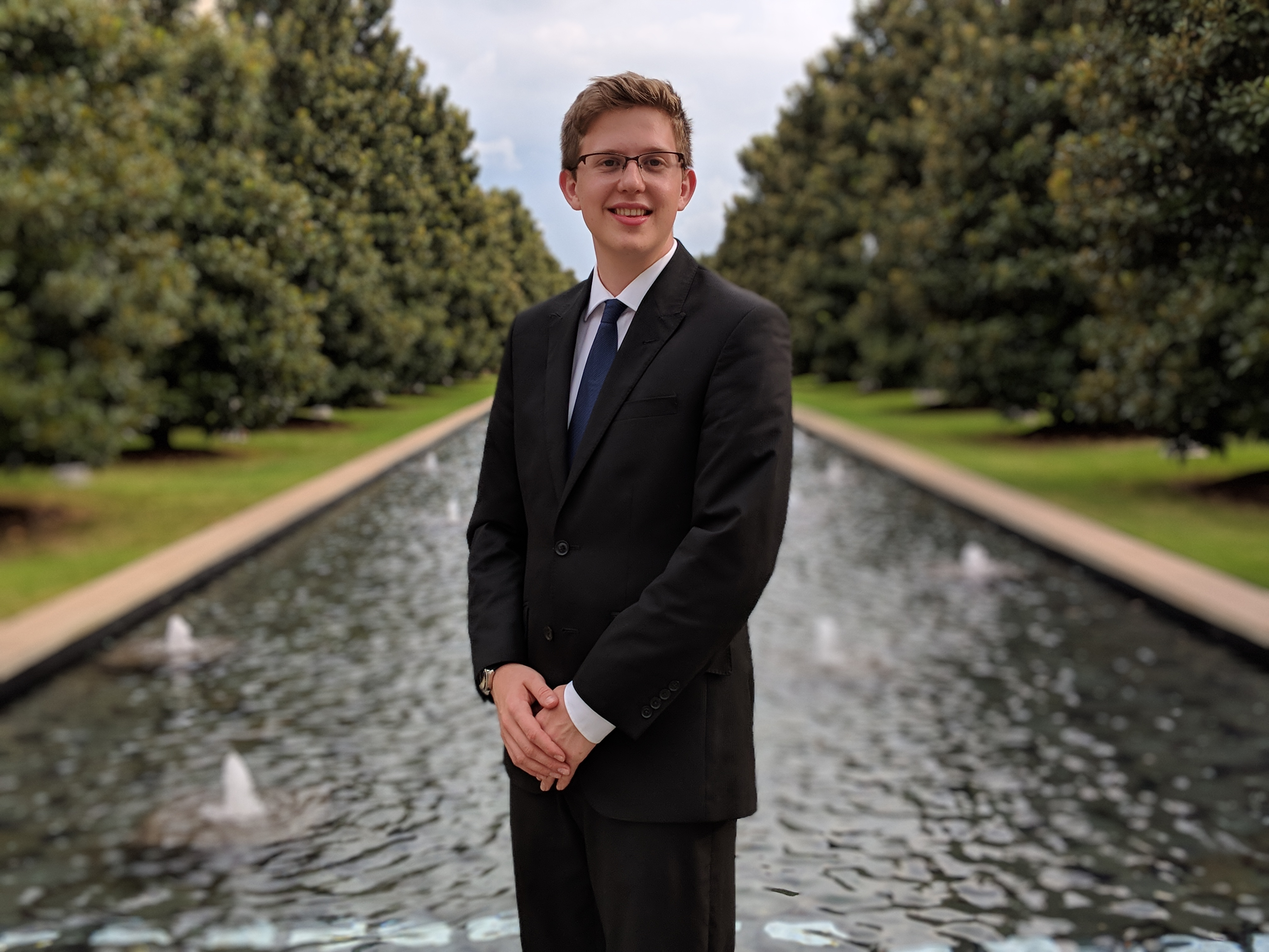
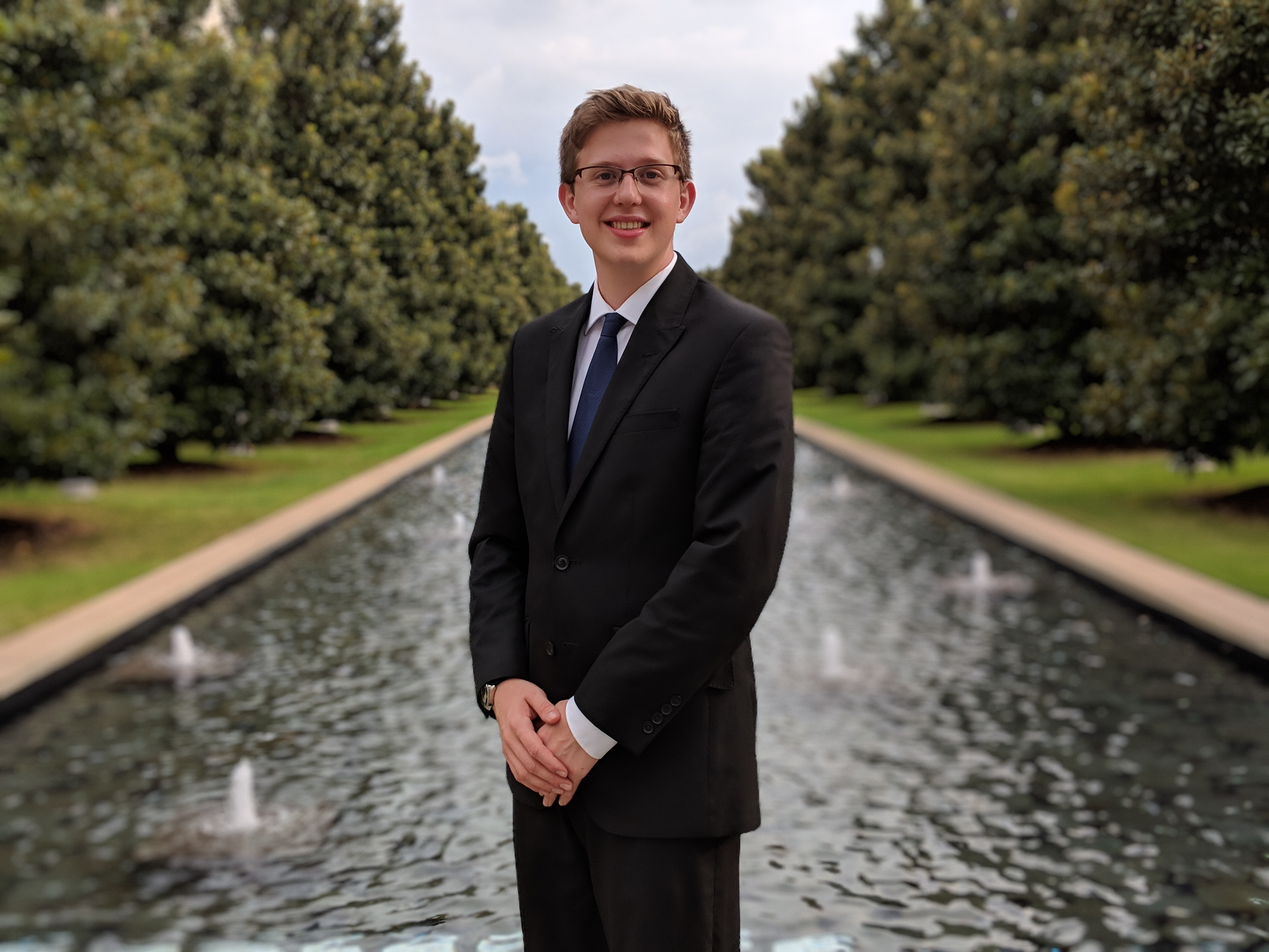
Gallery Edited

diff --git a/index.html b/index.html
@@ -27,60 +27,65 @@
     </div>
 
           <div class="gallery">
-                <img src="img/hmm.jpg" alt="Mountains" width="600" height="400">
+                <img src="img/pat.jpg" alt="Mountains" width="600" height="400">
               <div class="desc">Add a description of the image here</div>
             </div>
           
-          <div class="gallery">
-              <img src="img/mountain.jpg" alt="Forest" width="600" height="400">
+          
+          
+         <!--- 
+        <div class="gallery">
+            <img src="img/mountain.jpg" alt="Forest" width="1000" height="1000">
             <div class="desc">Mt. Baldy off in the distance days before summit</div>
-          </div>
+        </div>
 
-          <div class="gallery">
-                <img src="img/ncm.jpg" alt="Cinque Terre" width="1000" height="1000">
-                <div class="desc">Top of Mt. Baldy at Philmont Scout Ranch</div>
-                </div>
+        <div class="gallery">
+            <img src="img/ncm.jpg" alt="Cinque Terre" width="1000" height="1000">
+            <div class="desc">Top of Mt. Baldy at Philmont Scout Ranch</div>
+        </div>
           
-          <div class="gallery">
-              <img src="img/tober.png" width="600" height="400">
+        <div class="gallery">
+            <img src="img/tober.png" width="600" height="400">
             <div class="desc">Second place at Hacktober</div>
-          </div>
+        </div>
           
-          <div class="gallery">
-              <img src="img/webb.jpg" alt="Mountains" width="600" height="400">
+        <div class="gallery">
+            <img src="img/webb.jpg" alt="Mountains" width="600" height="400">
             <div class="desc">Add a description of the image here</div>
-          </div>
+        </div>
 
-          <div class="gallery">
-                <img src="img/luna.jpg" alt="Mountains" width="600" height="400">
-              <div class="desc">Add a description of the image here</div>
-            </div>
-          
+        <div class="gallery">
+            <img src="img/luna.jpg" alt="Mountains" width="400" height="400">
+            <div class="desc">Add a description of the image here</div>
+        </div> --->
 
 
 
 
     
   </body>
-  <div class="footer">
-        <a href="mailto:patrick.b.soisson@gmail.com">
-                <img src="https://img.icons8.com/windows/32/000000/email.png">
-        </a>
-
-        <a href="https://devpost.com/PSoysauce">
-            <img src="https://img.icons8.com/ios/32/000000/devpost.png">        
-        </a>
+  <footer>
+        <div class="footer">
+                <a href="mailto:patrick.b.soisson@gmail.com">
+                        <img src="https://img.icons8.com/windows/32/000000/email.png">
+                </a>
         
-        <a href="https://github.com/PSoysauce">
-            <img src="https://img.icons8.com/windows/32/000000/github.png">
-        </a>
-
-        <a href="https://www.linkedin.com/in/patrick-soisson">
-            <img src="https://img.icons8.com/ios-glyphs/32/000000/linkedin.png">
-        </a>
-	        
-	                
-        <pre> Made by Patrick Soisson</pre>
-    </div>
+                <a href="https://devpost.com/PSoysauce">
+                    <img src="https://img.icons8.com/ios/32/000000/devpost.png">        
+                </a>
+                
+                <a href="https://github.com/PSoysauce">
+                    <img src="https://img.icons8.com/windows/32/000000/github.png">
+                </a>
+        
+                <a href="https://www.linkedin.com/in/patrick-soisson">
+                    <img src="https://img.icons8.com/ios-glyphs/32/000000/linkedin.png">
+                </a>
+                    
+                            
+                <pre> Made by Patrick Soisson</pre>
+            </div>
+  </footer>
+  
 
 </html>

diff --git a/css/style.css b/css/style.css
@@ -40,6 +40,10 @@ pre {
     text-align: center;
 }
 
+footer {
+    display: block;
+}
+
 div.gallery {
     margin: 5px;
     border: 1px solid #ccc;
@@ -47,9 +51,6 @@ div.gallery {
     width: 180x;
   }
   
-  div.gallery:hover {
-    border: 1px solid #777;
-  }
   
   div.gallery img {
     width: 100%;
